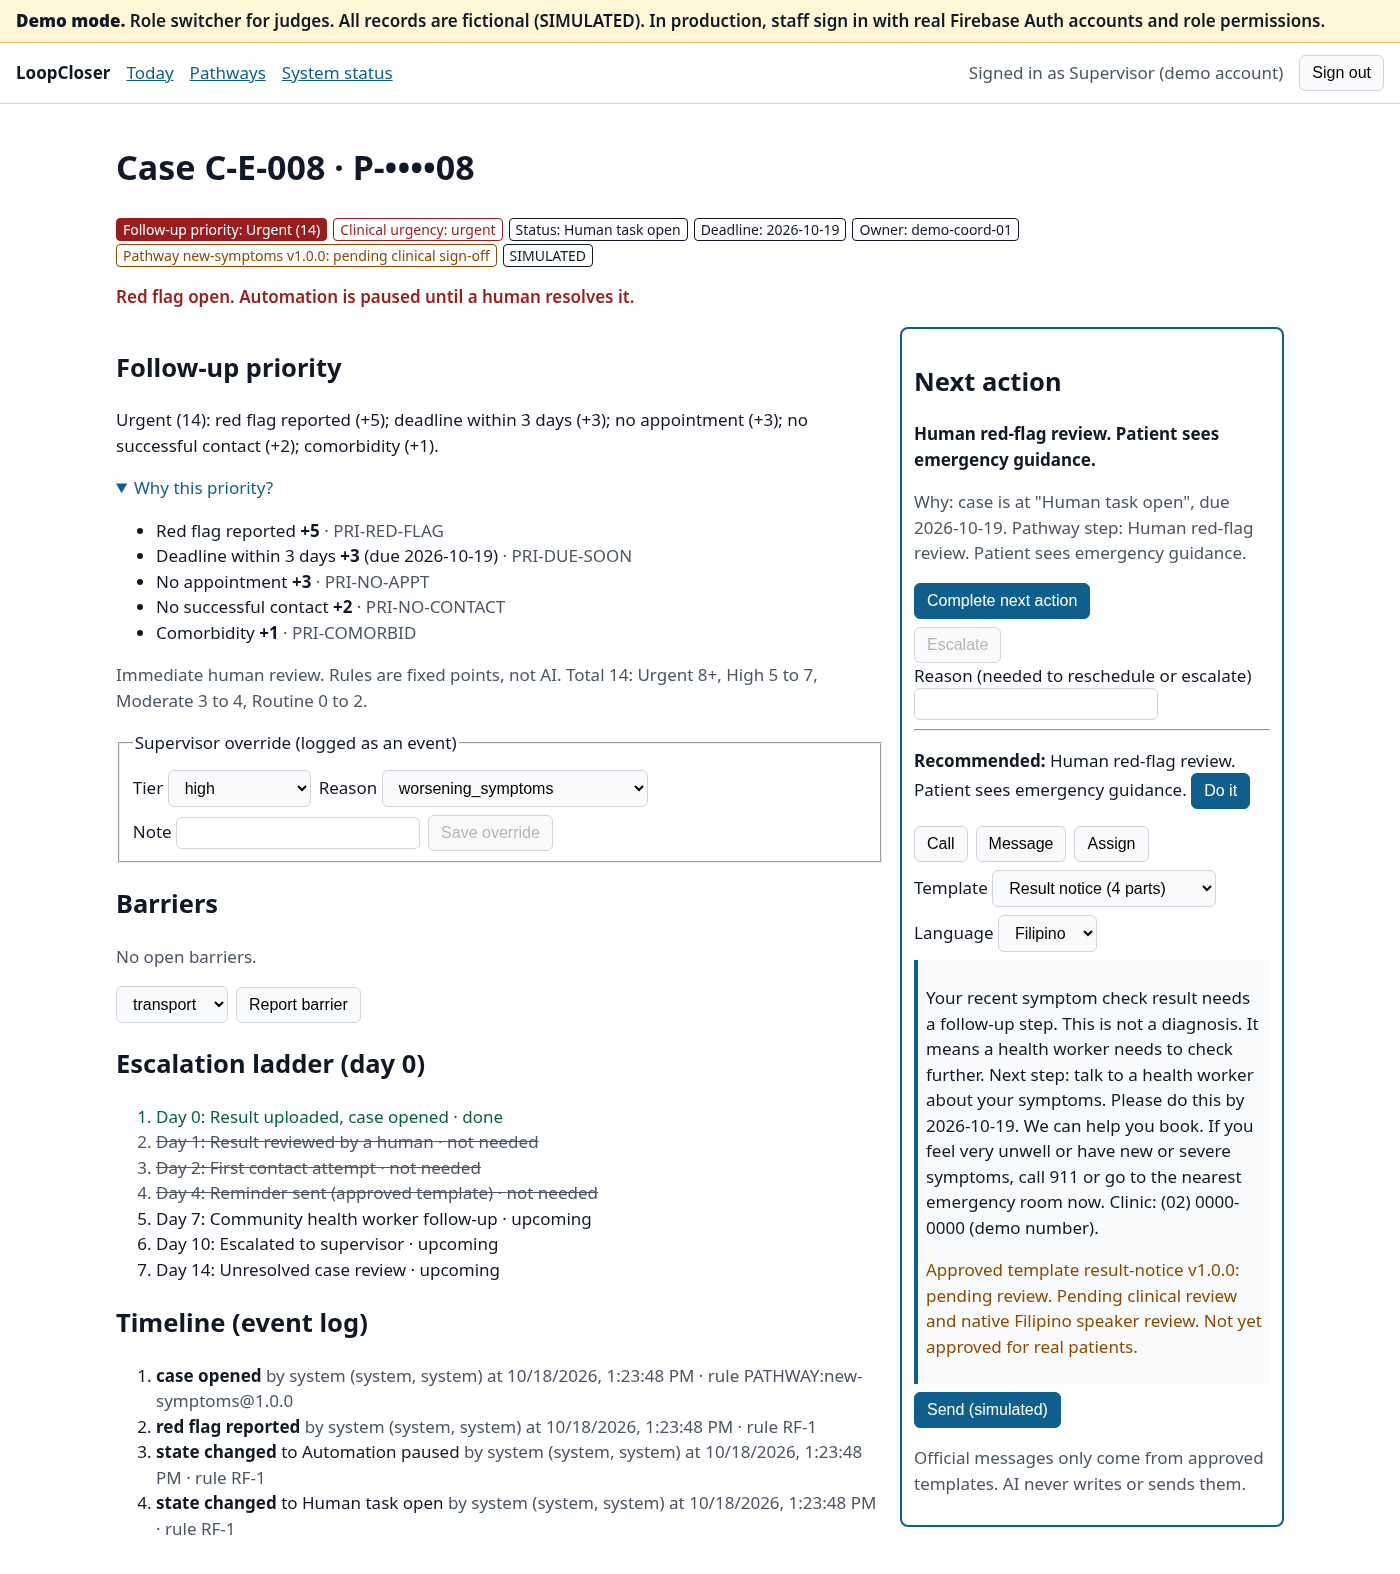
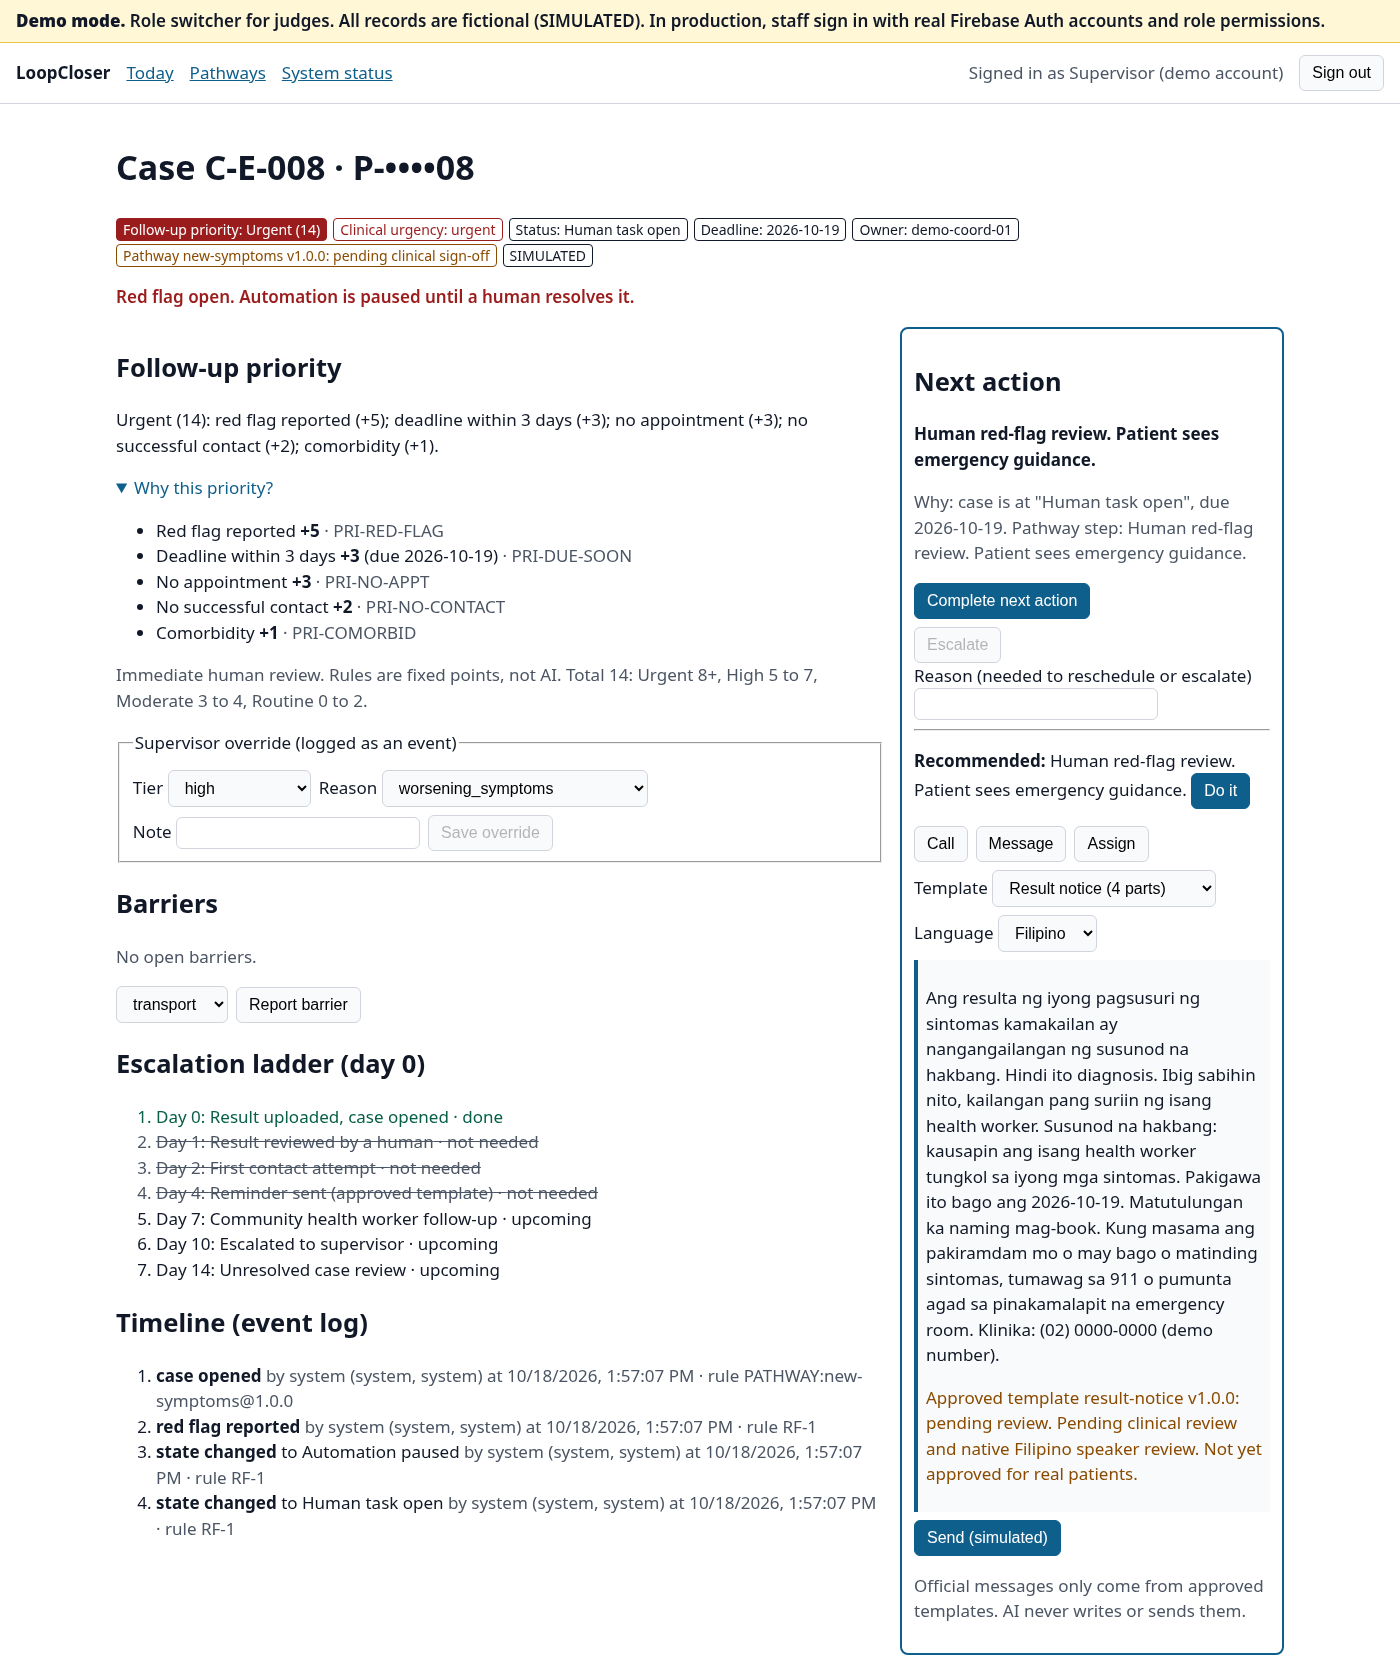
reset_demo: clearer output

Changed region(s): [[0.0614, 0.0934, 0.7371, 0.9962], [0.645, 0.2179, 0.9214, 0.9962], [0.0, 0.0, 0.9829, 0.0623]]

diff --git a/api/scripts/reset_demo.py b/api/scripts/reset_demo.py
@@ -7,7 +7,8 @@ exposed through the API. Run from a machine with gcloud application default cred
     GOOGLE_CLOUD_QUOTA_PROJECT=loopcloser-bkdkubo \\
       api/.venv/bin/python api/scripts/reset_demo.py --project loopcloser-bkdkubo --yes
 
-Then reseed with the supervisor demo button or POST /api/demo/seed.
+The API picks up the reset clock within 30 seconds. Then reseed with the supervisor demo button
+or POST /api/demo/seed.
 """
 
 from __future__ import annotations
@@ -33,7 +34,7 @@ def main() -> int:
 
     db = firestore.Client(project=a.project, database=a.database)
     cases = list(db.collection("cases").where(filter=FieldFilter("synthetic", "==", True)).stream())
-    real = db.collection("cases").where(filter=FieldFilter("synthetic", "==", False)).count().get()[0][0].value
+    real = int(db.collection("cases").where(filter=FieldFilter("synthetic", "==", False)).count().get()[0][0].value)
     print(f"{len(cases)} SIMULATED cases to delete; {real} real cases kept.")
     if not a.yes:
         print("Dry run. Add --yes to delete.")
@@ -56,7 +57,7 @@ def main() -> int:
         batch.commit()
     db.collection("meta").document("clock").set({"offset_days": 0, "reset": True})
     print(f"Deleted {deleted} SIMULATED cases and their events. Demo clock reset to today.")
-    print("Restart the API (or deploy) so it reloads the clock, then reseed.")
+    print("The API picks up the reset clock within 30 seconds. Then reseed.")
     return 0
 
 
